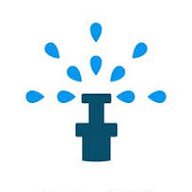
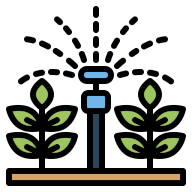
GUI improvements
* removed zone-time buttons
* Updated icons
* rearranged links to SIP

diff --git a/templates/index.html b/templates/index.html
@@ -34,7 +34,7 @@ if ("serviceWorker" in navigator) {
       margin-bottom: 20px;
       border-radius: 12px;
     }
-    .zone-btn, .duration-btn, .stop-btn, .start-custom {
+    .zone-btn, .stop-btn, .start-custom {
       border-radius: 25px;
       padding: 10px 20px;
       margin: 5px;
@@ -47,8 +47,6 @@ if ("serviceWorker" in navigator) {
     .zone-btn.active          { background-color: green; color: white; }
     .zone-btn.selected.active { border: 8px solid red; }
 
-    .duration-btn             { background-color: lightgrey; color: black }
-    .duration-btn.active      { border: 8px solid red; background-color: lightgrey; color: black; }
     .start-custom             { background-color: lightgrey; color: black; }
 
     .stop-btn                 { background-color: red; color: white; font-weight: bold; }
@@ -68,14 +66,6 @@ if ("serviceWorker" in navigator) {
      text-decoration: none;
    }
   
-/* Double size for Misters button */
-/*.misters-boost {
-  font-size: 80px !important;
-  padding: 20px 40px !important;
-  border-radius: 40px !important;
-}
-*/
-
 /* SIP not running banner */
 @keyframes sipBlink { 0%{opacity:1;} 50%{opacity:0.25;} 100%{opacity:1;} }
 #sip-alert-banner {
@@ -95,7 +85,7 @@ if ("serviceWorker" in navigator) {
 }
 body.sip-banner-offset { padding-top: 100px; }
 
-.start-custom.big-start {
+.start-custom {
   font-size: 40px !important;
   padding: 10px 20px !important;
 }
@@ -160,22 +150,10 @@ body.sip-banner-offset { padding-top: 100px; }
       <button class="zone-btn" data-zone="{{ id }}">{{ zone.nickname }}</button>
     {% endif %}
   {% endfor %}
-</div>
 <!-- 👇 Added extra linefeed here -->
 <br/>
-<div>
-<button class="duration-btn" data-min="8">8 min</button>
-<button class="duration-btn" data-min="10">10 min</button>
-<button class="duration-btn" data-min="15">15 min</button>
-</div>
-<div>
-
-<br/>
-<font size="40">or
-<br/>
-
-<input id="custom-min" max="999" placeholder="Min" style="width: 5ch; text-align: center; font-size: 40px; border-radius: 25px; padding: 10px 20px; margin: 5px;" type="number" value="{{ default_duration }}"/>
-<button class="start-custom big-start big-start" style="margin-top: 20px; margin-top: 20px;">Duration</button>
+<input id="custom-min" max="999" placeholder="Min" style="width: 4ch; text-align: center; font-size: 40px; border-radius: 25px; padding: 10px 20px; margin: 5px;" type="number" value="{{ default_duration }}"/>
+<font size="40">mins</font> <button class="start-custom" style="margin-top: 20px; margin-top: 20px;">Start</button>
 </div>
 
 <br/><br/>
@@ -192,11 +170,7 @@ body.sip-banner-offset { padding-top: 100px; }
 <!-- SIP options with overlay trigger -->
 <div id="sip-options" style="display:none;font-size: 40px;">
   <br/>
-  <a href="#" onclick="openOverlay('{{ url_for('view_log') }}'); return false;">View History</a>
-  <br/><br/>
-  <a href="#" onclick="openOverlay('{{ url_for('view_schedules') }}'); return false;">View Schedules</a>
-  <br/><br/>
-  <a href="#" onclick="verifySIPAccess(); return false;">Access Background Irrigation Program</a>
+ <a href="#" onclick="openOverlay('{{ url_for('view_schedules') }}'); return false;">Schedule</a> | <a href="#" onclick="openOverlay('{{ url_for('view_log') }}'); return false;">History</a> |  <a href="#" onclick="verifySIPAccess(); return false;">Open SIP Program</a>
 </div>
 
 <!-- Overlay container -->
@@ -520,7 +494,7 @@ if (zones.active && zones.zones && zones.zones.length > 0) {
 
       label.innerHTML =
         `<a style="color: green; text-decoration: none;">
-            Sprinkler system is on automatic${zoneText} </a><br><br>`;
+            Sprinkler System is on Automatic${zoneText} </a><br><br>`;
 
     } else {
       // hide the links
@@ -608,20 +582,6 @@ document.querySelectorAll('.zone-btn').forEach(btn => {
   btn.addEventListener('click', () => {
     selectedZone = btn.dataset.zone;
     updateZoneButtons(window.currentStatus || {});
-  });
-});
-
-document.querySelectorAll('.duration-btn').forEach(btn => {
-  btn.addEventListener('click', () => {
-    if (!selectedZone) return showAlert("Missing Zone Selection", "Please select a zone before starting a timer.");
-    let minutes = parseInt(btn.dataset.min);
-    btn.classList.add("active");
-    setTimeout(() => btn.classList.remove("active"), 1000);
-    fetch('/start_zone', {
-      method: 'POST',
-      headers: { 'Content-Type': 'application/json' },
-      body: JSON.stringify({ zone: selectedZone, duration: minutes * 60 })
-    });
   });
 });
 
